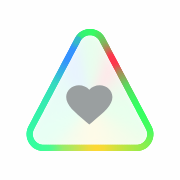
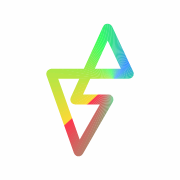
Логотип: знак-молния вместо треугольника
Шапка и картинка для соцсетей — bolt-small (толстая линия), favicon и иконка iOS — тоже,
logo-mark.png 512 px и заставка — мастер в цветах участками, как в Figma.
Подключение через src/lib/bolt.mjs, иконки пересобраны npm run brand.

Changed region(s): [[0.1389, 0.1111, 0.8611, 0.8889]]

diff --git a/docs/HANDOFF.md b/docs/HANDOFF.md
@@ -49,8 +49,7 @@
 - **Центр колеса** (21.10.2026): круг увеличен в 1,5 раза (r 50 → 75). Вступление обязательно (решение владельца): сначала крупно и жирно «внимание» в центре ~2 с → оно уходит вверх и гаснет, на его месте проявляется дуга «внимание» по верхнему краю круга (короткое слово на дуге читается без поворота головы) → затем этап и вопрос. Стартует, когда колесо на экране и заставка закрыта. После вступления «внимание» стоит на месте. Сразу под ним такой же дугой (внутренняя окружность) «→ этап» цветом этапа — меняется только она. Ровно в центре круга, как в магическом шаре, всплывают вопросы этапа (0,7 с, снизу из размытия). Вопросы — `STAGE_QUESTIONS` в `src/data/site.ts`, по ходу итерации привязаны ко дню (13 дней этапа на 4 вопроса), при наведении/выборе — вопросы этого этапа раз в 3 с.
 - **Размер колеса** (21.10.2026): круг на компьютере 460 px (прежний размер — владелец: «норм»), на телефоне во всю ширину (347 px на экране 375). Полоса со стрелкой всегда начинается от края карточки: `.wheel-stage` во всю ширину карточки (отрицательные поля под отступ `.wheel-card` 14px), `.pointer-rail` от края до круга с наконечником у края, на компьютере она длиннее. Поле видимости SVG обрезано (`viewBox -217 … 434`), поля страницы ≤480px — 12px.
 - Миссия на главной — в две строки, перенос после «создавать» (на телефоне переносится сама).
-- **Основной знак** — скруглённый треугольник со спектральной обводкой, внутри пастельная заливка и серое сердце `#9A9FA0` (заливка скрыта в тёмной теме). Генератор — `src/lib/mark.mjs`; после правки знака: `npm run build && npm run brand`.
-- **Знак-молния** — второй знак, на сайте не используется. Рабочие файлы — `design/logo-bolt/`. Пропорции — как в исходнике Figma (`Group 30`); **сплющенная квадратная версия отвергнута** («ужасно смотрится»). Выбрано: плавный вертикальный градиент, линия 20 (`bolt-line.svg`), для иконок 24.
+- **Основной знак — молния** (решение владельца 21.10.2026), в цветах участками, как в Figma (`design/logo-bolt/bolt-master.svg`). Подключение — `src/lib/bolt.mjs`: в шапке, favicon и иконке iOS — `bolt-small.svg` (толстая линия, тонкая на 16–40 px бледнеет), в `logo-mark.png` 512 px и заставке (`public/brand/bolt.svg`) — мастер. После правки знака: `npm run build && npm run brand`. Сплющенная квадратная молния отвергнута. Прежний треугольник с сердцем (`src/lib/mark.mjs`, `public/brand/mark.svg`) не используется, файлы оставлены как архив.
 - Звук заставки — файл владельца `public/brand/intro.mp3` (владелец подтвердил разрешение на использование, 25.09.2026). Синтезированный звук (`sting.ts`) удалён.
 - Заставка повторяет эталонное видео владельца кадр в кадр (`CleanShot 2026-09-23 at 18.03.37.mp4`). Тайминги — константы `T` в `Intro.astro`.
 

diff --git a/design/logo-bolt/README.md b/design/logo-bolt/README.md
@@ -1,6 +1,6 @@
 # Знак-молния
 
-Рабочие файлы второго знака. На сайте не используется — основной знак сайта треугольник с сердцем (`src/lib/mark.mjs`).
+**Основной знак сайта с 21.10.2026** (решение владельца): шапка, заставка, favicon, иконки, картинка для соцсетей. Подключение — `src/lib/bolt.mjs`: в шапке и иконках `bolt-small.svg` (толстая линия), в 512 px и заставке — `bolt-master.svg`. Прежний треугольник с сердцем (`src/lib/mark.mjs`) больше не используется.
 
 - `source-figma.svg` — исходник из Figma (Group 30). Градиент в нём сделан через HTML внутри SVG (`foreignObject`): его показывает только браузер, а Safari в favicon, Pencil, Telegram и графические редакторы покажут пустоту.
 - `bolt-master.svg` — тот же знак, переносимый: градиент пересобран из обычных SVG-фигур по матрице Figma, внутренняя тень сохранена. Для размеров от ~64 px.

diff --git a/CHANGELOG.md b/CHANGELOG.md
@@ -64,6 +64,7 @@
 - Вернул вступление: сначала крупное жирное «внимание» в центре, затем дуга «внимание», «→ этап» и вопрос.
 - Текущий этап на колесе мягко подсвечен без наведения: чуть насыщеннее оттенок сектора (токены `--sec-*-now`), яркое название, плавная смена за 0,8 с.
 - Подпись «итерация» без белой обводки — только лёгкая тень.
+- Новый логотип — знак-молния: шапка, заставка, favicon, иконка iOS, `logo-mark.png`, картинка для соцсетей.
 - Центр: «внимание» всегда дугой сверху, без анимации; сразу под ним такой же дугой «→ этап» — меняется только она; вопрос в центре.
 
 ### Дальше

diff --git a/CLAUDE.md b/CLAUDE.md
@@ -27,7 +27,7 @@ Astro, статическая сборка. Превью: https://izobretatel88.
 ```bash
 npm run dev     # localhost:4321
 npm run build   # сборка в dist/
-npm run brand   # после build: пересобрать favicon, иконки и og.jpg из src/lib/mark.mjs
+npm run brand   # после build: пересобрать favicon, иконки, заставку и og.jpg из знака-молнии (src/lib/bolt.mjs)
 ```
 
 Эксперименты — в ветке `dev` (видны на `/dev/`), после одобрения владельца вливаются в `main`.
